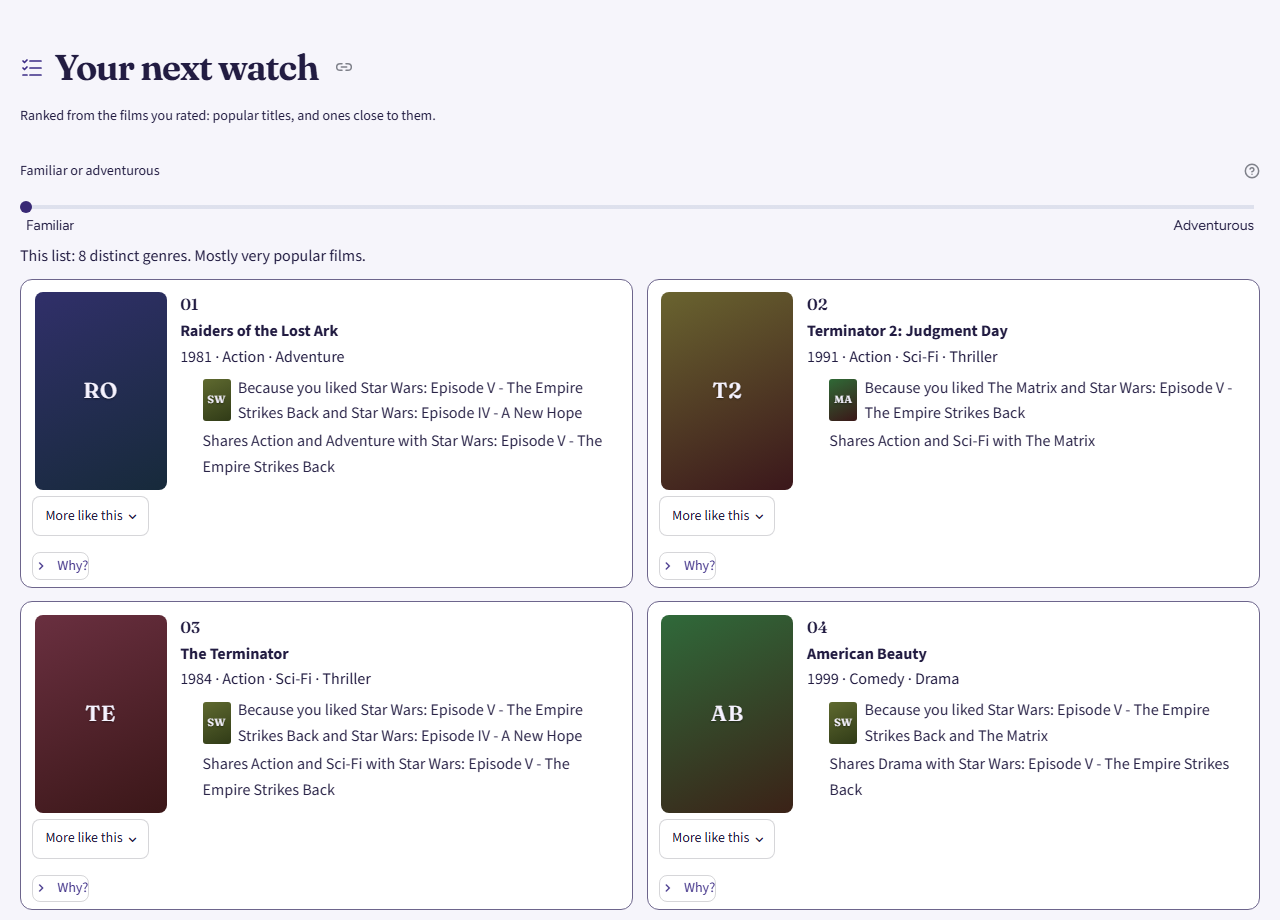
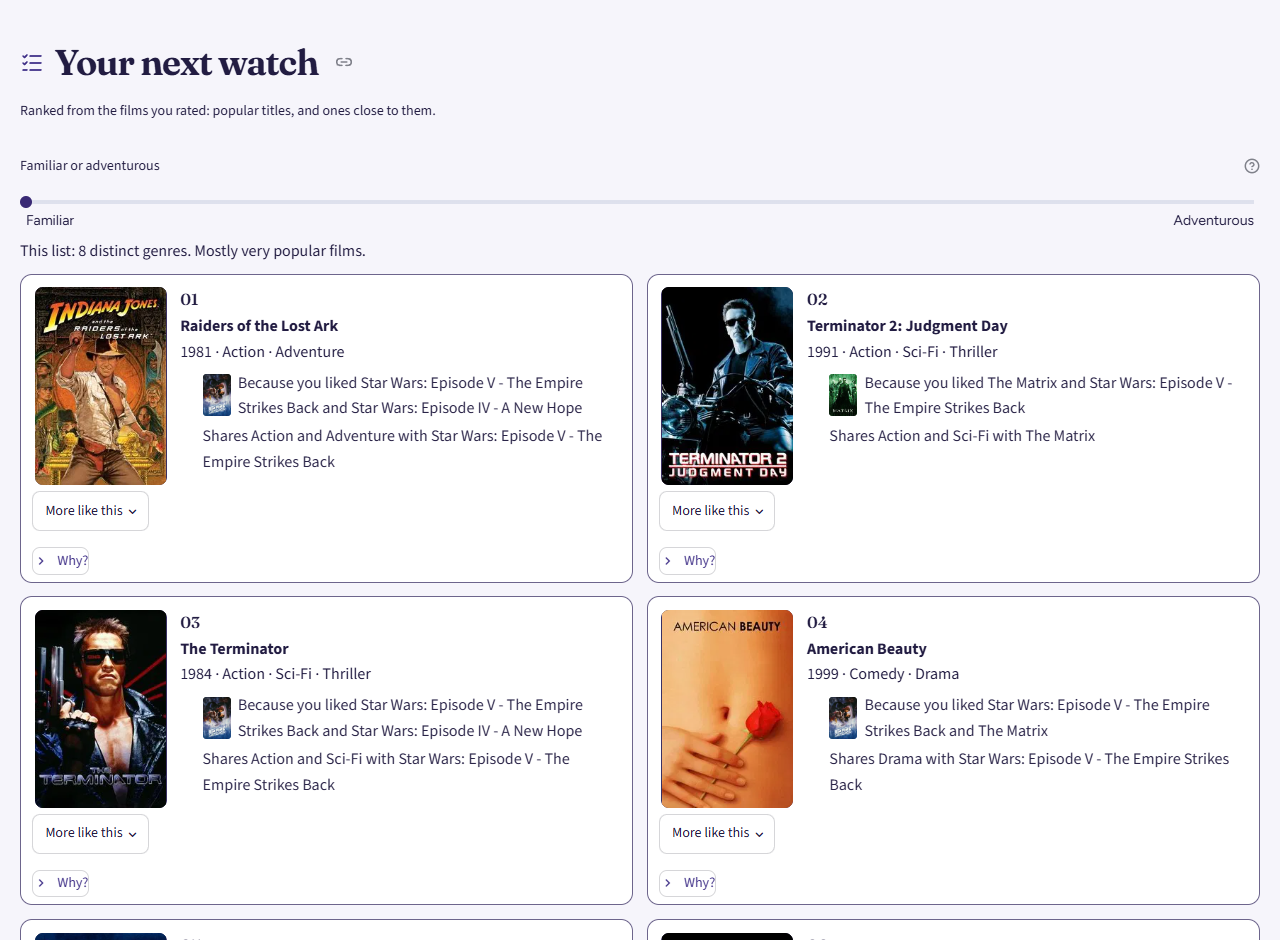
Keep the demo awake, lead the README with a demo, and use live screenshots
A scheduled workflow opens the public demo in a headless browser every
four hours and clicks the wake button when the app is asleep. It fails
visibly when the app does not come up.

The README now opens with a one-line pitch, a short animation of the
live page, and the headline result. scripts/record_demo.py records that
walkthrough (an .mp4 for sharing and a .gif for the README) and the three
screenshots, all from the live page with TMDB posters.

The new-user nudge no longer quotes a results file path to visitors.

Changed region(s): [[0.0, 0.0304, 1.0, 1.0], [0.9062, 0.213, 0.9688, 0.2739], [0.9688, 0.1522, 1.0, 0.1826]]

diff --git a/scripts/record_demo.py b/scripts/record_demo.py
@@ -1,0 +1,196 @@
+#!/usr/bin/env python3
+"""Record a short walkthrough of the public demo, and the README screenshots.
+
+``video``: drives the live page in a headless browser with Playwright's
+recorder, then trims the loading time and writes an H.264 ``.mp4`` (for a
+LinkedIn post) and a small ``.gif`` (for the README) with ffmpeg. The output
+goes to ``artifacts/demo/``, which is gitignored.
+
+``screenshots``: writes the three README images under ``docs/demo/``.
+
+The page must be awake: run ``scripts/keep_awake.py`` first. Posters appear
+because the live app has a TMDB key; a local run without one shows
+placeholders. ``--channel chrome`` uses the installed Chrome.
+"""
+
+from __future__ import annotations
+
+import argparse
+import shutil
+import subprocess
+import time
+from pathlib import Path
+
+ROOT = Path(__file__).resolve().parents[1]
+APP = "https://nikosmav-movielens-recommender.streamlit.app/~/+/"
+OUT = ROOT / "artifacts" / "demo"
+SHOTS = ROOT / "docs" / "demo"
+SAMPLE = "Try Science fiction sample"
+# Ids rated 5 in the README's picks screenshot: The Matrix, Star Wars V, IV, VI.
+SHARED = "?view=discover&ratings=2571-5.1196-5.260-5.1210-5&mix=0"
+
+
+def _wait_text(page, text: str, timeout_sec: int = 120) -> None:
+    page.get_by_text(text, exact=False).first.wait_for(timeout=timeout_sec * 1000)
+
+
+def _glide(page, total: int, *, step: int = 120, pause: float = 0.05) -> None:
+    """Scroll by ``total`` pixels in small steps, so the video reads as a scroll."""
+    page.mouse.move(640, 450)
+    moved = 0
+    while abs(moved) < abs(total):
+        delta = step if total > 0 else -step
+        page.mouse.wheel(0, delta)
+        moved += delta
+        time.sleep(pause)
+
+
+def _settle(page, seconds: float) -> None:
+    page.wait_for_timeout(int(seconds * 1000))
+
+
+def record(channel: str | None) -> Path:
+    from playwright.sync_api import sync_playwright
+
+    OUT.mkdir(parents=True, exist_ok=True)
+    raw_dir = OUT / "raw"
+    shutil.rmtree(raw_dir, ignore_errors=True)
+    with sync_playwright() as playwright:
+        browser = playwright.chromium.launch(headless=True, channel=channel)
+        context = browser.new_context(
+            viewport={"width": 1280, "height": 720},
+            color_scheme="light",
+            record_video_dir=str(raw_dir),
+            record_video_size={"width": 1280, "height": 720},
+        )
+        started = time.monotonic()
+        page = context.new_page()
+        page.goto(APP + "?view=discover", wait_until="domcontentloaded")
+        _wait_text(page, "Find your next film")
+        page.locator("img.poster").first.wait_for(timeout=60_000)
+        lead_in = time.monotonic() - started
+        _settle(page, 2.0)
+
+        _glide(page, 360)
+        _settle(page, 1.0)
+        page.get_by_role("button", name=SAMPLE).click()
+        _settle(page, 2.0)
+        # Show the posters with their filled stars before asking for picks.
+        _glide(page, 720, step=60, pause=0.05)
+        _settle(page, 2.5)
+        page.get_by_role("button", name="Get my picks").click()
+        _wait_text(page, "Your next watch")
+        _settle(page, 1.5)
+        page.get_by_text("Your next watch").first.scroll_into_view_if_needed()
+        _settle(page, 2.5)
+        _glide(page, 900, step=60, pause=0.06)
+        _settle(page, 1.5)
+        page.get_by_text("Why?", exact=True).first.click()
+        _settle(page, 3.0)
+
+        page.get_by_text("How good is it?", exact=True).first.click()
+        _wait_text(page, "The model in this demo")
+        _settle(page, 1.0)
+        page.get_by_text("The model in this demo").first.scroll_into_view_if_needed()
+        _settle(page, 1.5)
+        # End on the served-model chart: 0.202 against 0.131.
+        _glide(page, 240, step=40, pause=0.06)
+        _settle(page, 4.5)
+
+        video = page.video
+        context.close()
+        browser.close()
+        raw = Path(video.path())
+
+    trimmed_mp4 = OUT / "movielens-demo.mp4"
+    gif = OUT / "movielens-demo.gif"
+    start = max(0.0, lead_in - 0.5)
+    ffmpeg = shutil.which("ffmpeg")
+    if ffmpeg is None:
+        target = OUT / "movielens-demo.webm"
+        shutil.copy(raw, target)
+        print(f"ffmpeg not found. Untrimmed recording: {target}")
+        return target
+    subprocess.run(
+        [
+            ffmpeg, "-y", "-loglevel", "error", "-ss", f"{start:.2f}", "-i", str(raw),
+            "-c:v", "libx264", "-pix_fmt", "yuv420p", "-preset", "slow", "-crf", "20",
+            "-movflags", "+faststart", "-an", str(trimmed_mp4),
+        ],
+        check=True,
+    )
+    palette = OUT / "palette.png"
+    scale = "fps=8,scale=720:-1:flags=lanczos"
+    subprocess.run(
+        [ffmpeg, "-y", "-loglevel", "error", "-i", str(trimmed_mp4),
+         "-vf", f"{scale},palettegen=stats_mode=diff", str(palette)],
+        check=True,
+    )
+    subprocess.run(
+        [ffmpeg, "-y", "-loglevel", "error", "-i", str(trimmed_mp4), "-i", str(palette),
+         "-lavfi", f"{scale}[x];[x][1:v]paletteuse=dither=bayer:bayer_scale=5", str(gif)],
+        check=True,
+    )
+    palette.unlink()
+    shutil.rmtree(raw_dir, ignore_errors=True)
+    for path in (trimmed_mp4, gif):
+        print(f"{path.stat().st_size:>10} {path}")
+    return trimmed_mp4
+
+
+def _crop(page, top_text: str, height: int, out: Path, *, above: int = 24) -> None:
+    from PIL import Image
+
+    box = page.get_by_text(top_text, exact=False).first.bounding_box()
+    if box is None:
+        raise RuntimeError(f"{top_text!r} is not on the page")
+    full = OUT / "full.png"
+    page.screenshot(path=str(full), full_page=False)
+    image = Image.open(full).convert("RGB")
+    top = max(0, int(box["y"]) - above)
+    image.crop((0, top, 1280, min(image.height, top + height))).save(out, optimize=True)
+    full.unlink()
+    print(f"{out.stat().st_size:>10} {out}")
+
+
+def screenshots(channel: str | None) -> None:
+    from playwright.sync_api import sync_playwright
+
+    OUT.mkdir(parents=True, exist_ok=True)
+    with sync_playwright() as playwright:
+        browser = playwright.chromium.launch(headless=True, channel=channel)
+        page = browser.new_page(viewport={"width": 1280, "height": 4800}, color_scheme="light")
+
+        page.goto(APP + "?view=discover", wait_until="domcontentloaded")
+        _wait_text(page, "Find your next film")
+        page.get_by_role("button", name=SAMPLE).click()
+        _settle(page, 3.0)
+        page.locator("img.poster").nth(5).wait_for(timeout=60_000)
+        _settle(page, 3.0)
+        _crop(page, "What have you watched?", 1080, SHOTS / "discover-rate.png", above=40)
+
+        page.goto(APP + SHARED, wait_until="domcontentloaded")
+        _wait_text(page, "Your next watch")
+        _settle(page, 6.0)
+        _crop(page, "Your next watch", 940, SHOTS / "discover-picks.png", above=40)
+
+        page.goto(APP + "?view=quality", wait_until="domcontentloaded")
+        _wait_text(page, "The model in this demo")
+        _settle(page, 3.0)
+        _crop(page, "How good is it?", 790, SHOTS / "quality.png", above=60)
+        browser.close()
+
+
+def main() -> None:
+    parser = argparse.ArgumentParser(description=__doc__.splitlines()[0])
+    parser.add_argument("what", choices=("video", "screenshots", "both"))
+    parser.add_argument("--channel", default=None, help="e.g. chrome for the installed Chrome")
+    args = parser.parse_args()
+    if args.what in {"screenshots", "both"}:
+        screenshots(args.channel)
+    if args.what in {"video", "both"}:
+        record(args.channel)
+
+
+if __name__ == "__main__":
+    main()

diff --git a/scripts/keep_awake.py b/scripts/keep_awake.py
@@ -1,0 +1,81 @@
+#!/usr/bin/env python3
+"""Open the public demo in a headless browser so Community Cloud does not put it to sleep.
+
+A plain HTTP request does not count as a visit: the app only wakes when a
+browser loads it, and a sleeping app waits for someone to click its wake
+button. This script loads the page, clicks that button when it is there, and
+waits until the app has drawn its first section. It exits non-zero when the
+app does not come up, so a scheduled run that fails is visible.
+
+Locally, ``KEEP_AWAKE_CHANNEL=chrome`` uses the installed Chrome instead of a
+Playwright browser download.
+"""
+
+from __future__ import annotations
+
+import argparse
+import os
+import sys
+import time
+
+DEFAULT_URL = "https://nikosmav-movielens-recommender.streamlit.app/"
+WAKE_BUTTON = "Yes, get this app back up"
+# Text the app draws once its models are loaded (the Discover hero).
+READY_TEXT = "Find your next film"
+MISSING_TEXT = ("No model parameters were found", "could not finish starting")
+
+
+def _app_text(page) -> str:
+    """Visible text of the page and of every frame. The app runs inside an iframe."""
+    chunks = []
+    for frame in page.frames:
+        try:
+            chunks.append(frame.locator("body").inner_text(timeout=2_000))
+        except Exception:
+            continue
+    return "\n".join(chunks)
+
+
+def visit(url: str, *, timeout_sec: int, channel: str | None) -> tuple[bool, str]:
+    from playwright.sync_api import sync_playwright
+
+    with sync_playwright() as playwright:
+        browser = playwright.chromium.launch(headless=True, channel=channel)
+        page = browser.new_page(viewport={"width": 1280, "height": 900})
+        page.goto(url, wait_until="domcontentloaded", timeout=60_000)
+        started = time.monotonic()
+        woke = False
+        while time.monotonic() - started < timeout_sec:
+            button = page.get_by_role("button", name=WAKE_BUTTON)
+            if not woke and button.count():
+                button.first.click()
+                woke = True
+                print("The app was asleep. Clicked the wake button.", flush=True)
+            text = _app_text(page)
+            if READY_TEXT in text:
+                browser.close()
+                waited = round(time.monotonic() - started)
+                return True, f"ready after {waited}s ({'woken' if woke else 'awake'})"
+            for marker in MISSING_TEXT:
+                if marker in text:
+                    browser.close()
+                    return False, f"the app started but reports: {marker}"
+            time.sleep(5)
+        browser.close()
+    return False, f"not ready after {timeout_sec}s"
+
+
+def main() -> int:
+    parser = argparse.ArgumentParser(description=__doc__.splitlines()[0])
+    parser.add_argument("--url", default=os.environ.get("DEMO_URL", DEFAULT_URL))
+    parser.add_argument("--timeout", type=int, default=420, help="Seconds to wait for the app")
+    args = parser.parse_args()
+    ok, detail = visit(
+        args.url, timeout_sec=args.timeout, channel=os.environ.get("KEEP_AWAKE_CHANNEL") or None
+    )
+    print(f"{args.url}: {detail}", flush=True)
+    return 0 if ok else 1
+
+
+if __name__ == "__main__":
+    sys.exit(main())

diff --git a/space/value.py b/space/value.py
@@ -426,7 +426,7 @@ def funnel_steps(pipeline: Mapping[str, Any] | None) -> list[dict[str, str]]:
 
 
 def cold_start_nudge(payload: Mapping[str, Any]) -> str:
-    """Cite the cold-start file only when its stored flags say 3 beats 1."""
+    """Say what 3 ratings buy, only when the stored cold-start flags say 3 beats 1."""
     blocks: dict[int, Mapping[str, Any]] = {}
     for block in payload.get("by_n") or []:
         if isinstance(block, dict) and "n" in block:
@@ -447,8 +447,8 @@ def cold_start_nudge(payload: Mapping[str, Any]) -> str:
         and three_pair.get("excludes_zero") is True
     ):
         return (
-            "Rate at least 3 films. In results/cold-start/ml-1m.json the served list "
-            "does not beat most-popular at 1 rating, and it does at 3 ratings."
+            "Rate at least 3 films. In testing, from 3 ratings on these picks beat "
+            "a list of the most popular films. After 1 rating they do not."
         )
     return base
 

diff --git a/tests/test_demo_value.py b/tests/test_demo_value.py
@@ -103,12 +103,13 @@ def test_stale_reason_hides_a_film_that_is_no_longer_rated():
     assert "100" in tip
 
 
-def test_cold_start_nudge_cites_the_file_only_when_the_flags_match():
+def test_cold_start_nudge_states_the_result_only_when_the_flags_match():
     value = _load("value")
     payload = json.loads((ROOT / "results/cold-start/ml-1m.json").read_text(encoding="utf-8"))
     text = value.cold_start_nudge(payload)
-    assert "results/cold-start/ml-1m.json" in text
-    assert "3 ratings" in text
+    assert "3 ratings on these picks beat a list of the most popular films" in text
+    # Visitors see this sentence. It names no file.
+    assert "results/" not in text and ".json" not in text
     assert value.cold_start_nudge({"by_n": []}) == "Rate at least 3 films."
 
 

diff --git a/README.md b/README.md
@@ -1,14 +1,31 @@
 # movielens-recommender
 
-[![Streamlit Community Cloud](https://img.shields.io/badge/Streamlit%20Community%20Cloud-live-brightgreen)](https://nikosmav-movielens-recommender.streamlit.app/)
+[![Live demo](https://img.shields.io/badge/demo-live-brightgreen)](https://nikosmav-movielens-recommender.streamlit.app/)
+[![CI](https://github.com/NikosMav/movielens-recommender/actions/workflows/ci.yml/badge.svg)](https://github.com/NikosMav/movielens-recommender/actions/workflows/ci.yml)
+![Python 3.10 to 3.12](https://img.shields.io/badge/python-3.10%E2%80%933.12-blue)
+[![License: MIT](https://img.shields.io/badge/license-MIT-lightgrey)](LICENSE)
 
-**Live demo:** [nikosmav-movielens-recommender.streamlit.app](https://nikosmav-movielens-recommender.streamlit.app/)
+**Rate three films and get ten picks, each with the reason it was chosen.** A movie recommender built from scratch on [MovieLens](https://grouplens.org/datasets/movielens/) ratings, measured strictly enough that failed ideas are published as failures.
 
-A movie recommender built from scratch on [MovieLens](https://grouplens.org/datasets/movielens/) ratings, with an evaluation protocol strict enough that negative results are reported as such.
+**[Try the live demo →](https://nikosmav-movielens-recommender.streamlit.app/)**
 
-It covers the path from data to a demo: download and cleaning, a per-user time split, an evaluation harness with bootstrap confidence intervals, classic baselines, a two-tower retrieval model, a LightGBM LambdaRank re-ranker, a Streamlit app that explains each recommendation in plain language and also serves people with no MovieLens history, an HTTP API with batch scoring, monitoring, and a Docker image, and a time-ordered replay that tests when the models need retraining. The same harness runs on ml-latest-small, ml-1m, and MovieLens 32M.
+![Rate a few films, get ten picks with reasons, then see how the model is measured](docs/demo/movielens-demo.gif)
 
-![Discover: search or browse a shelf, rate films with the stars, and collect ratings in the side panel](docs/demo/discover-rate.png)
+## At a glance
+
+- **The served model is 54% better than the one it replaced.** It reads the order a viewer rated films in. On held-out MovieLens 1M viewers it scores NDCG@10 **0.202** against **0.131** for the earlier ranker, a paired gain of +0.072 (95% interval +0.067 to +0.078). The switch was decided by a rule written down before the test ran ([ADR-0033](docs/adr/0033-pctm-in-the-ranker.md)).
+- **Every pick explains itself.** A card names the films you rated that led to it ("Because you liked …"), and a details panel shows what drove the ranker's score.
+- **It works for strangers.** You don't need a MovieLens account: rate a few films and a model trained on short profiles takes over. From three ratings it beats a list of the most popular films ([ADR-0012](docs/adr/0012-new-user-cold-start.md)).
+- **Negative results stay in.** The two-tower model did not beat item–item on its gate. Two attempts at a larger, post-2000 catalogue missed their ship rule. Both are written up ([ADR-0006](docs/adr/0006-two-tower-retrieval.md), [ADR-0034](docs/adr/0034-extended-discover-catalogue.md), [ADR-0035](docs/adr/0035-extended-catalogue-popularity-blend.md)).
+
+```mermaid
+flowchart LR
+    A[Your ratings] --> B[Candidates<br/>watch-order transitions<br/>+ two-tower retrieval]
+    B --> C[LightGBM LambdaRank<br/>re-ranks 200 films]
+    C --> D[Top 10<br/>with reasons]
+```
+
+**What's inside.** A per-user time split and an evaluation harness with bootstrap confidence intervals. More than ten models, tuned on validation only: popularity, item–item, ALS, EASE, EASE-DAN, RP3beta, a PyTorch two-tower model, SASRec, eSASRec, pairwise transitions, and a LightGBM ranker. A Streamlit app, a FastAPI service with batch scoring and Prometheus metrics, a Docker image, a drift-and-retraining replay, CI on every change, and 35 decision records. The same harness runs on ml-latest-small, ml-1m, and MovieLens 32M.
 
 ## Contents
 
@@ -93,11 +110,13 @@ The [public demo](https://nikosmav-movielens-recommender.streamlit.app/) runs on
 
 Posters use the Streamlit secret `TMDB_API_KEY` when it is set. Without that secret, each card uses a placeholder. The page follows Streamlit's System, Light, and Dark setting.
 
+![Discover: search or browse a shelf, rate films with the stars, and collect ratings in the side panel](docs/demo/discover-rate.png)
+
 ![Discover: ten picks, each with the rated films behind it and a familiar-to-adventurous slider](docs/demo/discover-picks.png)
 
 ![How good is it: NDCG@10 with uncertainty ranges, read from the committed results JSON](docs/demo/quality.png)
 
-The screenshots were taken from a local run with no `TMDB_API_KEY`, so cards show placeholders. The live page shows posters.
+The screenshots and the animation are from the live page, recorded with `python scripts/record_demo.py both`. Poster images come from [TMDB](https://www.themoviedb.org/). This product uses the TMDB API but is not endorsed or certified by TMDB.
 
 The entrypoint is `space/app.py`. Community Cloud runs `streamlit run` with the repository root as the working directory and looks for dependencies in the entrypoint's directory first. `space/requirements.txt` is that file: pinned versions, Python 3.12, and CPU PyTorch from `--extra-index-url https://download.pytorch.org/whl/cpu`. `packages.txt` at the repo root installs `libgomp1` for LightGBM. In Advanced settings, select Python 3.12.
 
@@ -335,7 +354,7 @@ pytest -q
 ruff check src tests scripts app space
 ```
 
-GitHub Actions runs ruff and pytest on Python 3.10 and 3.12 with the CPU PyTorch wheel. Tests use synthetic data only; `MOVIELENS_ALLOW_DOWNLOAD=0` blocks downloads in CI. A second job type-checks and builds the React frontend and verifies the committed `space/astryx_ui` bundle. A third builds the Docker image and checks that a container with no snapshot answers `/health` with 503.
+GitHub Actions runs ruff and pytest on Python 3.10 and 3.12 with the CPU PyTorch wheel. Tests use synthetic data only; `MOVIELENS_ALLOW_DOWNLOAD=0` blocks downloads in CI. A second job type-checks and builds the React frontend and verifies the committed `space/astryx_ui` bundle. A third builds the Docker image and checks that a container with no snapshot answers `/health` with 503. A separate scheduled workflow opens the public demo in a headless browser every four hours (`scripts/keep_awake.py`), so Community Cloud does not put it to sleep, and fails visibly if the app does not come up.
 
 ## Engineering process
 
